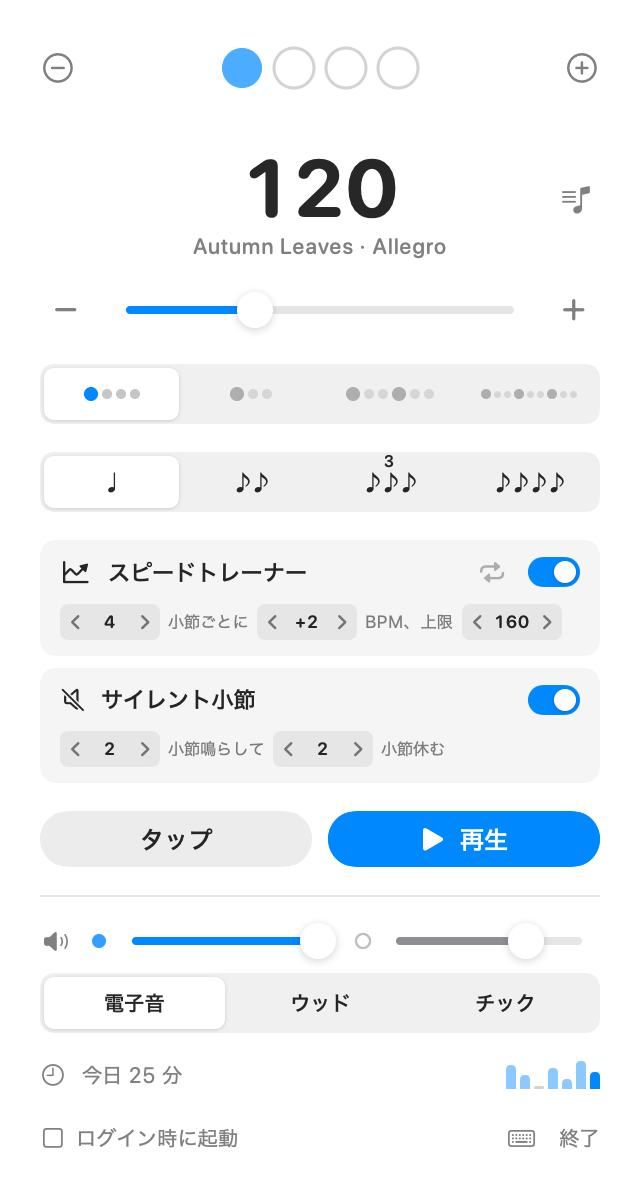
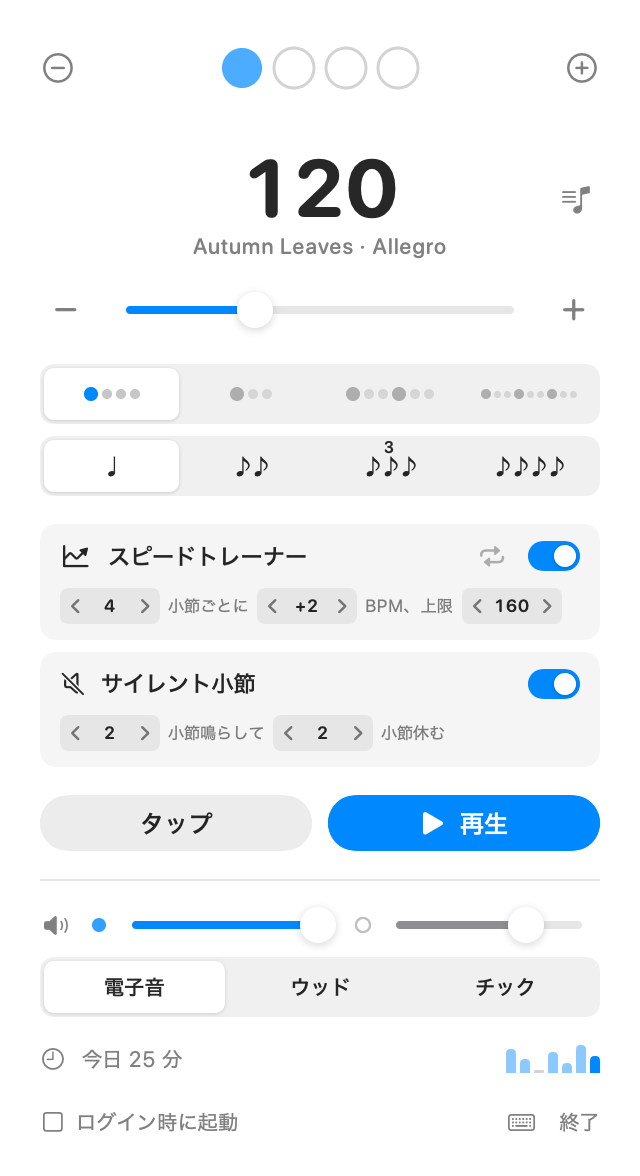
docs: refresh the screenshots

diff --git a/docs/ja/index.html b/docs/ja/index.html
@@ -61,7 +61,7 @@
         <div class="screenshot-wrapper">
           <picture>
             <source srcset="screenshot-dark.png" media="(prefers-color-scheme: dark)">
-            <img src="screenshot.png" alt="Pulstick の画面。拍の丸、120 BPM（Allegro）、拍子と細分化のボタン、スピードトレーナーとサイレント小節の設定、タップと再生のボタン、今日の練習時間" class="screenshot" width="320" height="596" />
+            <img src="screenshot.png" alt="Pulstick の画面。拍の丸、120 BPM（Allegro）、拍子と細分化のボタン、スピードトレーナーとサイレント小節の設定、タップと再生のボタン、今日の練習時間" class="screenshot" width="320" height="588" />
           </picture>
         </div>
       </div>

diff --git a/docs/index.html b/docs/index.html
@@ -61,7 +61,7 @@
         <div class="screenshot-wrapper">
           <picture>
             <source srcset="screenshot-dark.png" media="(prefers-color-scheme: dark)">
-            <img src="screenshot.png" alt="Pulstick popover: beat dots, 120 BPM marked Allegro, time signature and subdivision buttons, speed trainer and silent bars settings, Tap and Play buttons" class="screenshot" width="320" height="596" />
+            <img src="screenshot.png" alt="Pulstick popover: beat dots, 120 BPM marked Allegro, time signature and subdivision buttons, speed trainer and silent bars settings, Tap and Play buttons" class="screenshot" width="320" height="588" />
           </picture>
         </div>
       </div>
